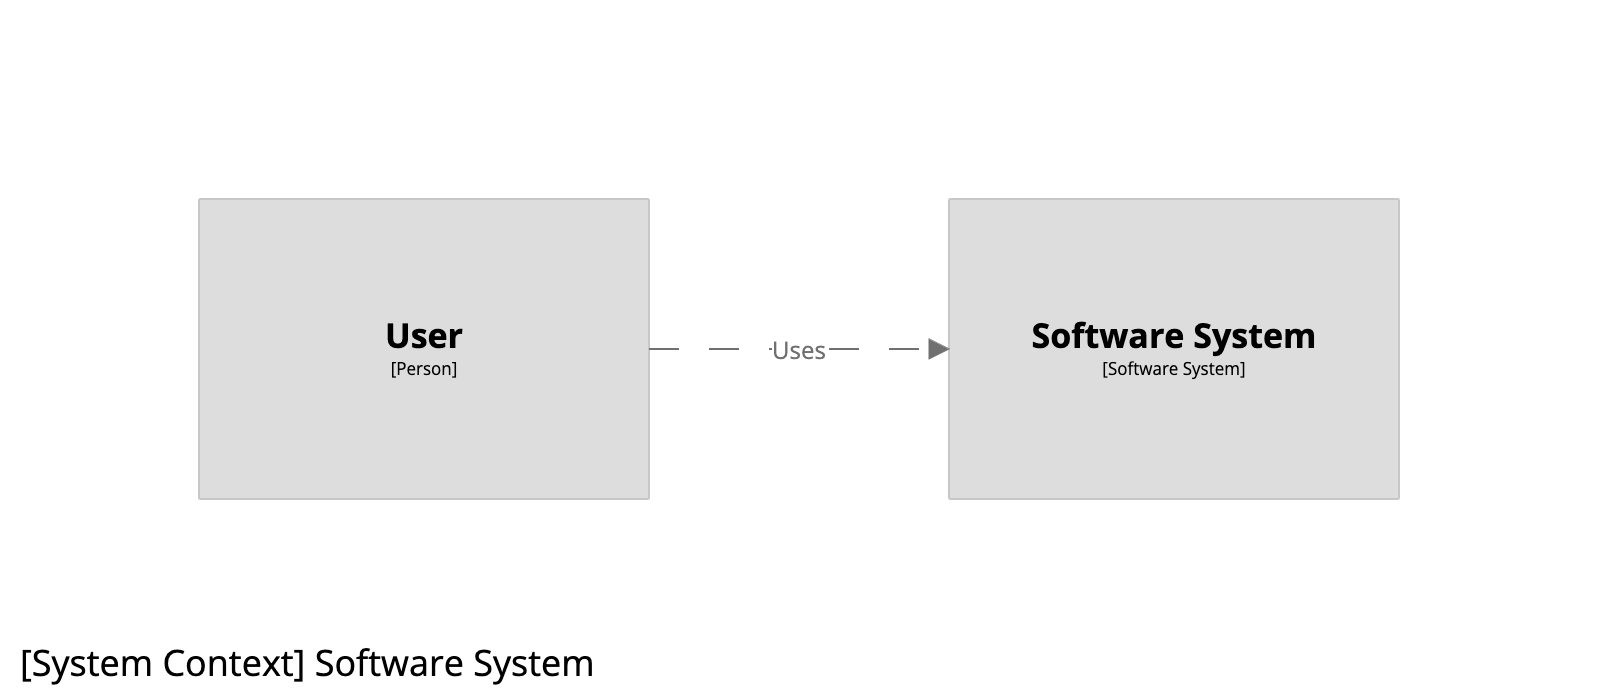
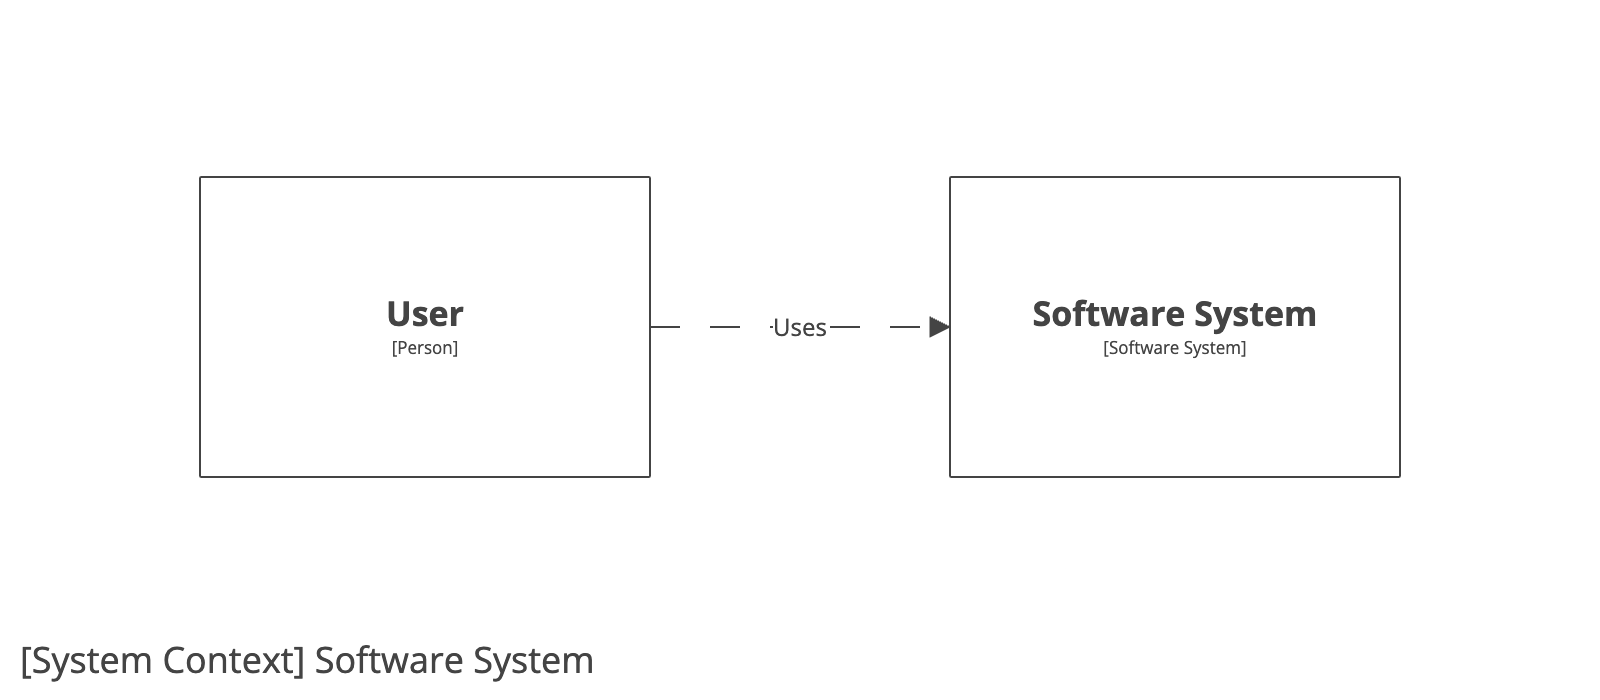
Update tutorial.

diff --git a/dsl/02-tutorial.md b/dsl/02-tutorial.md
@@ -260,14 +260,19 @@ Styling elements can be achieved by creating an [element style](/dsl/cookbook/el
         
         styles {
             element "Element" {
-                color white
+                color #0773af
+                stroke #0773af
+                strokeWidth 7
+                shape roundedbox
             }
             element "Person" {
-                background #116611
                 shape person
             }
-            element "Software System" {
-                background #2D882D
+            element "Boundary" {
+                strokeWidth 5
+            }
+            relationship "Relationship" {
+                thickness 4
             }
         }
     }
@@ -275,10 +280,10 @@ Styling elements can be achieved by creating an [element style](/dsl/cookbook/el
 
 This code:
 
-- sets the foreground colour of all elements to white
-- sets the background colour of all software systems to green
-- sets the background colour of all people to a darker green
+- sets the foreground colour and stroke of all elements to #0773af (blue)
 - sets the shape of all people to a person shape
+- increases the line thickness for boundary boxes (e.g. the dashed line that shows the software system boundary on a container diagram)
+- increases the line thickness for relationships
 
 [![](/dsl/tutorial/5-1.png)](http://structurizr.com/dsl?src=https://docs.structurizr.com/dsl/tutorial/5.dsl&view=Diagram1)
 
@@ -299,16 +304,11 @@ And then we can define an element style for that `Database` tag.
 ```
         styles {
             ...
-            element "Container" {
-                background #55aa55
-            }
             element "Database" {
                 shape cylinder
             }
         }
 ```
-
-We have additionally added an element style for the `Container` tag, to set the colour of all containers to a lighter green.
 
 [![](/dsl/tutorial/5-2.png)](http://structurizr.com/dsl?src=https://docs.structurizr.com/dsl/tutorial/5.dsl&view=Diagram2)
 
